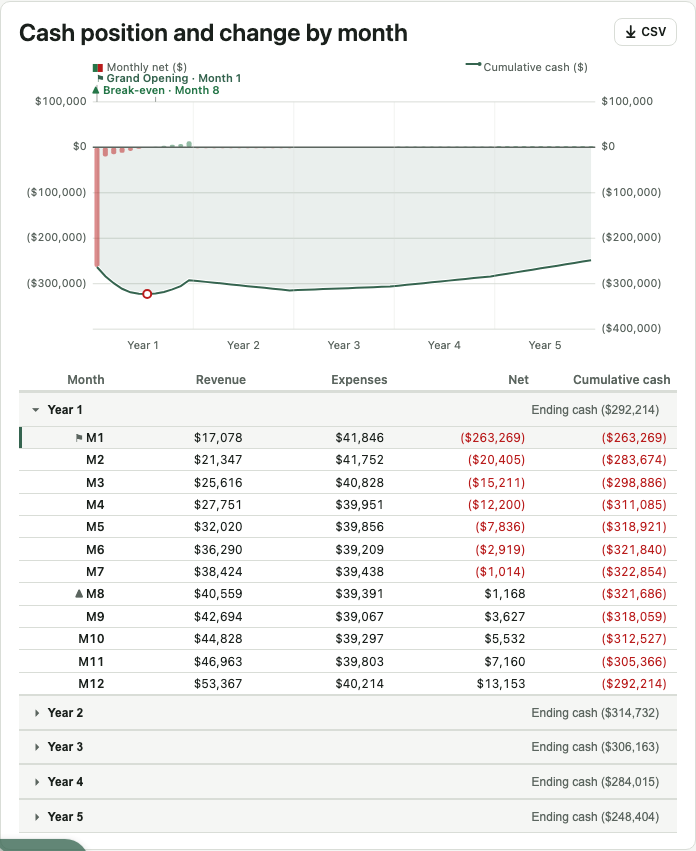
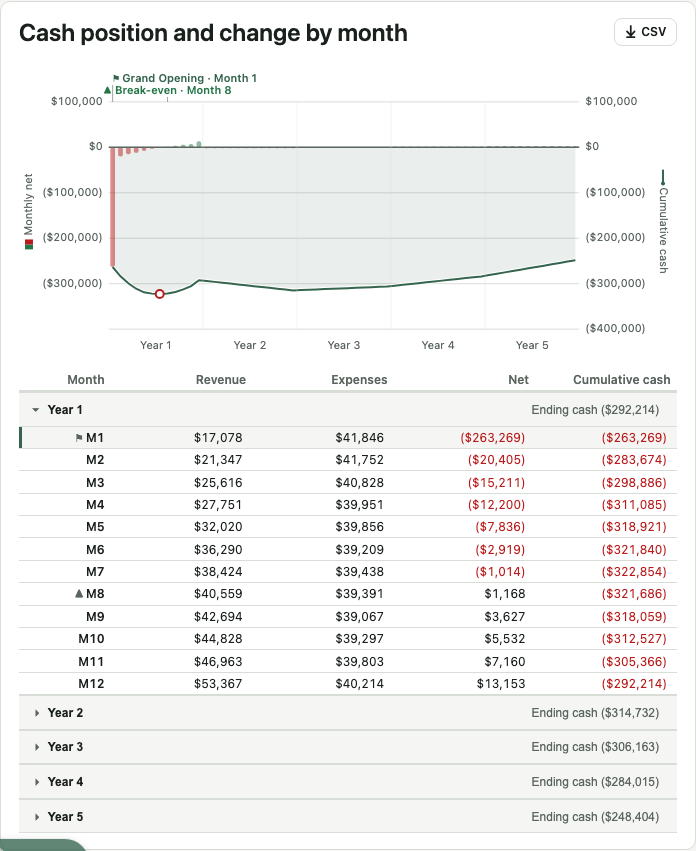
fix(cashflow): rotate axis titles, drop redundant "($)" (owner feedback)
The horizontal top-row axis-title chips read as "sloppy" to the owner. Replace
them with conventional rotated y-axis titles: the net (left) title rotates
-90deg and reads bottom-to-top, the cumulative (right) title mirrors it at
90deg reading top-to-bottom (the standard twin-axis convention) — each glyph
(box swatch / line+dot) rides along with its text as one rotated <g>, glyph
first in reading order. Both titles drop the trailing "($)" since the tick
labels already carry "$", making it redundant.

Both titles are vertically centered on the plot (shared pivot Y), positioned
just inside the SVG edge in the left/right gutters, outside the tick-label
column. padL/padR widen by 16px each (74->90, 82->98) — the minimum a rotated
title's own thickness needs — while padT/milestoneBaseY revert to their
pre-axis-title-chip constants (44/24) since the titles no longer occupy a top
row; the ≤480px stacking ternaries (JS-only, no dedicated CSS existed) are
removed as dead code now that rotation removes the narrow-width collision
entirely.

RED-first: replaced the obsolete narrow-stack unit test with coverage for the
rotation transform, shared vertical-center pivot, left/right gutter placement,
glyph-before-text DOM order, and the "no ($)" assertion, at both default and
narrow-stubbed widths. Extended the e2e evidence-screenshot test to also
capture a close-up crop per rotated title (net + cumulative) at all three
viewports, replacing the now-stale top-row closeups.

diff --git a/web/src/components/CashflowChart.test.tsx b/web/src/components/CashflowChart.test.tsx
@@ -148,6 +148,105 @@ describe("CashflowChart module", () => {
     expect(svg.textContent).toMatch(/Cumulative cash/);
   });
 
+  // ── owner-feedback polish (2026-07-04 second live review) — rotated axis
+  // titles. The horizontal top-row title chips read as sloppy/unlabeled to the
+  // owner; they are replaced with CONVENTIONAL rotated y-axis titles, one in
+  // each gutter, vertically centered on the plot, glyph riding along with the
+  // text as one rotated group. "($)" is dropped from both — the tick labels
+  // already carry "$", so repeating it in the title is redundant. ──────────────
+  describe("rotated axis titles (owner item, 2026-07-04 second review)", () => {
+    it("drops the redundant '($)' from both axis titles — ticks already show $", () => {
+      render(<CashflowChart monthly={series60()} breakevenMonth={29} milestones={milestones60} />);
+      const net = screen.getByTestId("cashflow-axis-title-net");
+      const cum = screen.getByTestId("cashflow-axis-title-cum");
+      expect(net.textContent).toBe("Monthly net");
+      expect(cum.textContent).toBe("Cumulative cash");
+      expect(net.textContent).not.toMatch(/\(\$\)/);
+      expect(cum.textContent).not.toMatch(/\(\$\)/);
+    });
+
+    it("rotates the net title -90° (reads bottom-to-top) and the cumulative title 90° (reads top-to-bottom)", () => {
+      const { container } = render(
+        <CashflowChart monthly={series60()} breakevenMonth={29} milestones={milestones60} />,
+      );
+      const netGroup = container.querySelector(".cashflow-chart__axis-label--net")!;
+      const cumGroup = container.querySelector(".cashflow-chart__axis-label--cum")!;
+      const netTransform = netGroup.getAttribute("transform") ?? "";
+      const cumTransform = cumGroup.getAttribute("transform") ?? "";
+      expect(netTransform).toMatch(/^rotate\(-90 /);
+      expect(cumTransform).toMatch(/^rotate\(90 /);
+    });
+
+    it("vertically centers both rotated titles on the plot area, on the SAME pixel row", () => {
+      const { container } = render(
+        <CashflowChart monthly={series60()} breakevenMonth={29} milestones={milestones60} />,
+      );
+      const netGroup = container.querySelector(".cashflow-chart__axis-label--net")!;
+      const cumGroup = container.querySelector(".cashflow-chart__axis-label--cum")!;
+      const parse = (t: string) => t.match(/rotate\((-?[\d.]+) ([\d.]+) ([\d.]+)\)/)!;
+      const [, , netCx, netCy] = parse(netGroup.getAttribute("transform")!);
+      const [, , cumCx, cumCy] = parse(cumGroup.getAttribute("transform")!);
+      // Plot area is H=300, padT=44, padB=28 → plotH=228 → vertical center = 158,
+      // fixed regardless of viewport width (chart geometry constant).
+      expect(netCy).toBe("158");
+      expect(cumCy).toBe(netCy);
+      // The net title sits in the LEFT gutter, the cumulative title in the RIGHT.
+      expect(parseFloat(netCx)).toBeLessThan(parseFloat(cumCx));
+    });
+
+    it("places the net title in the left gutter and the cumulative title in the right gutter (outside the tick labels)", () => {
+      const { container } = render(
+        <CashflowChart monthly={series60()} breakevenMonth={29} milestones={milestones60} />,
+      );
+      const netGroup = container.querySelector(".cashflow-chart__axis-label--net")!;
+      const cumGroup = container.querySelector(".cashflow-chart__axis-label--cum")!;
+      const parse = (t: string) => parseFloat(t.match(/rotate\(-?[\d.]+ ([\d.]+)/)![1]);
+      const netCx = parse(netGroup.getAttribute("transform")!);
+      const cumCx = parse(cumGroup.getAttribute("transform")!);
+      // Wide viewBox is 660 units wide; the net pivot is near the left edge,
+      // the cumulative pivot near the right edge.
+      expect(netCx).toBeLessThan(30);
+      expect(cumCx).toBeGreaterThan(630);
+    });
+
+    it("renders the glyph BEFORE the text in DOM/reading order for both titles", () => {
+      const { container } = render(
+        <CashflowChart monthly={series60()} breakevenMonth={29} milestones={milestones60} />,
+      );
+      const netGroup = container.querySelector(".cashflow-chart__axis-label--net")!;
+      const cumGroup = container.querySelector(".cashflow-chart__axis-label--cum")!;
+      const netChildren = Array.from(netGroup.children).map((c) => c.tagName.toLowerCase());
+      const cumChildren = Array.from(cumGroup.children).map((c) => c.tagName.toLowerCase());
+      expect(netChildren.indexOf("text")).toBe(netChildren.length - 1);
+      expect(cumChildren.indexOf("text")).toBe(cumChildren.length - 1);
+    });
+
+    it("still renders both titles rotated + centered at the narrow (<=480px) viewport", () => {
+      const mql = {
+        matches: true,
+        media: "(max-width: 480px)",
+        addEventListener: () => {},
+        removeEventListener: () => {},
+      };
+      vi.stubGlobal("matchMedia", vi.fn().mockReturnValue(mql as unknown as MediaQueryList));
+      const { container } = render(
+        <CashflowChart monthly={series60()} breakevenMonth={29} milestones={milestones60} />,
+      );
+      const netGroup = container.querySelector(".cashflow-chart__axis-label--net")!;
+      const cumGroup = container.querySelector(".cashflow-chart__axis-label--cum")!;
+      expect(netGroup.getAttribute("transform")).toMatch(/^rotate\(-90 /);
+      expect(cumGroup.getAttribute("transform")).toMatch(/^rotate\(90 /);
+      // Narrow viewBox is 380 units wide; the cumulative pivot tracks the
+      // narrower right edge (never clipped, never dropped).
+      const cumCx = parseFloat(
+        cumGroup.getAttribute("transform")!.match(/rotate\(-?[\d.]+ ([\d.]+)/)![1],
+      );
+      expect(cumCx).toBeGreaterThan(350);
+      expect(cumCx).toBeLessThan(380);
+      vi.unstubAllGlobals();
+    });
+  });
+
   // ── owner-feedback polish (2026-07-04 live review) ─────────────────────────
   it("marks the axis-title swatches aria-hidden (the text label already names the series)", () => {
     const { container } = render(
@@ -454,42 +553,6 @@ describe("shared-zero degenerate guard (review C1)", () => {
       container.querySelectorAll(".cashflow-chart__axis-tick--right"),
     ).map((t) => t.textContent);
     expect(rightTicks).toContain("$0");
-  });
-});
-
-// ── owner-feedback item 1 (live review 2026-07-04): at <=480px the wide layout's
-// fixed right-anchor offset for the cumulative axis title collided with the net
-// title's text with ZERO gap (confirmed in a real 375px browser render — the two
-// labels ran together as "Monthly net ($)—Cumulative cash ($)"), which is exactly
-// why the owner read the axes as unlabeled. The spec explicitly allows the title
-// pair to STACK at narrow widths (§7); this locks that stacked, non-colliding
-// layout in place. jsdom has no matchMedia, so it's stubbed to force `narrow`. ──
-describe("axis-title layout at <=480px (owner item 1, narrow stack)", () => {
-  function stubNarrowMatchMedia() {
-    const mql = {
-      matches: true,
-      media: "(max-width: 480px)",
-      addEventListener: () => {},
-      removeEventListener: () => {},
-    };
-    vi.stubGlobal(
-      "matchMedia",
-      vi.fn().mockReturnValue(mql as unknown as MediaQueryList),
-    );
-  }
-
-  it("stacks the cumulative title BELOW the net title instead of sharing its row", () => {
-    stubNarrowMatchMedia();
-    const { container } = render(
-      <CashflowChart monthly={series60()} breakevenMonth={29} milestones={milestones60} />,
-    );
-    const netText = container.querySelector(".cashflow-chart__axis-label--net text")!;
-    const cumText = container.querySelector(".cashflow-chart__axis-label--cum text")!;
-    const netY = parseFloat(netText.getAttribute("y")!);
-    const cumY = parseFloat(cumText.getAttribute("y")!);
-    // Stacked, not side-by-side: cum sits on a LOWER row than net.
-    expect(cumY).toBeGreaterThan(netY);
-    vi.unstubAllGlobals();
   });
 });
 

diff --git a/web/src/components/CashflowChart.tsx b/web/src/components/CashflowChart.tsx
@@ -195,34 +195,39 @@ export function CashflowChart({ monthly, breakevenMonth, milestones, viewSlug }:
   // labels ("($300,000)") — ~62px wide — so the narrower spec paddings (sized for
   // the abbreviated "$300k" labels in the spec's illustrative worked example)
   // clipped them at both edges. Verified un-clipped in the QA screenshot (§7 says
-  // to confirm padding by screenshot, not formula).
-  const padL = 74;
-  const padR = 82;
-  // Axis-title block + milestone-label row height depends on layout: at <=480px
-  // the two axis titles STACK into two rows (spec §7 "axis-title pair may
-  // stack") instead of sharing one row — owner-feedback fix (item 1): at the
-  // wide layout's fixed right-anchor offset, the cumulative title's text
-  // collided with the net title's text at ZERO gap on the narrower 380-unit
-  // reference viewBox (confirmed in a real 375px browser render — the two read
-  // as one run-together string, which is why the owner saw the axes as
-  // unlabeled). Stacking needs more headroom before the milestone-label row,
-  // which itself needs more headroom before the plot starts.
-  const padT = narrow ? 58 : 44;
+  // to confirm padding by screenshot, not formula). +16 on each side (owner
+  // live-review, 2026-07-04 second pass) is the rotated axis title's own
+  // "thickness" (a vertical title's footprint in the gutter is its font
+  // line-height, ~12px, not its text length) — the minimum needed so the
+  // rotated title clears the tick-label column; the plot keeps the rest.
+  const padL = 90;
+  const padR = 98;
+  // The axis titles no longer live in a top row (owner item, 2026-07-04 second
+  // review — they rotate into the left/right gutters instead), so padT reverts
+  // to the pre-axis-title-chip constant: just enough headroom for the on-chart
+  // milestone-label row before the plot starts (no narrow/wide split needed —
+  // that split existed only to stack the old horizontal title chips).
+  const padT = 44;
   const padB = 28;
   const plotW = W - padL - padR;
   const plotH = H - padT - padB;
   const tCum = narrow ? 3 : 5;
   const tNet = narrow ? 3 : 4;
-  // Cumulative axis-title position: same row as net (right-anchored) at
-  // wide/tablet; a second row, left-aligned under the net title, when narrow.
-  const cumTitleY = narrow ? 20 : 6;
-  const cumTitleTextY = narrow ? 27 : 13;
-  const cumTitleX1 = narrow ? padL : W - padR - 130;
-  const cumTitleX2 = narrow ? padL + 14 : W - padR - 116;
-  const cumTitleTextX = narrow ? padL + 18 : W - padR - 112;
-  // Milestone on-chart labels sit below the axis-title block; narrow needs the
-  // extra row's worth of headroom the stacked titles now occupy.
-  const milestoneBaseY = narrow ? 36 : 24;
+  // Rotated axis-title geometry: each title is one <g> rotated about a pivot
+  // point (pivotX, plotCenterY) — see the render below for the rotation-math
+  // doctrine (rotate(-90,·) on the left puts the FIRST local-x content, the
+  // glyph, at the bottom, reading bottom-to-top; rotate(90,·) on the right
+  // puts it at the top, reading top-to-bottom — the standard mirrored
+  // twin-axis convention). Vertically centering both on the plot means both
+  // pivots share the same Y, so the shared-$0 spirit extends to the titles
+  // too. leftTitleX/rightTitleX sit just inside the SVG edge, outside the
+  // tick-label column (padL/padR above already reserve the room).
+  const plotCenterY = padT + plotH / 2;
+  const leftTitleX = 10;
+  const rightTitleX = W - 14;
+  // Milestone on-chart labels sit below where the axis-title row used to be;
+  // a single constant now that titles never occupy this row (narrow or wide).
+  const milestoneBaseY = 24;
 
   const n = monthly.length;
   const bandW = plotW / n;
@@ -422,19 +427,49 @@ export function CashflowChart({ monthly, breakevenMonth, milestones, viewSlug }:
             </g>
           )}
 
-          {/* axis titles (identity carried here, not a standalone legend). At
-              <=480px the two stack into two rows instead of sharing one — see
-              the padT/cumTitle* comment above (owner item 1). The swatch
-              shapes are aria-hidden; the text label already names the series. */}
-          <g className="cashflow-chart__axis-label cashflow-chart__axis-label--net">
-            <rect aria-hidden="true" className="cashflow-chart__axis-swatch--net-pos" x={padL} y={6} width={5} height={8} />
-            <rect aria-hidden="true" className="cashflow-chart__axis-swatch--net-neg" x={padL + 5} y={6} width={5} height={8} />
-            <text x={padL + 14} y={13} className="cashflow-chart__axis-label-text">Monthly net ($)</text>
+          {/* axis titles (identity carried here, not a standalone legend) —
+              owner item, 2026-07-04 second review: CONVENTIONAL rotated
+              y-axis titles, one per gutter, vertically centered on the plot,
+              instead of the horizontal top-row chips that read as sloppy /
+              unlabeled. "($)" is dropped — the tick labels already carry "$".
+              Each title is glyph-then-text in LOCAL (pre-rotation) reading
+              order, rotated as ONE group so the glyph rides along with the
+              text. rotate(-90, pivot) on the left sends the first
+              (smallest-local-x) content — the glyph — to the BOTTOM of the
+              rotated block, so the net title reads bottom-to-top;
+              rotate(90, pivot) on the right sends it to the TOP, so the
+              cumulative title reads top-to-bottom — the standard mirrored
+              twin-axis convention. The swatch shapes stay aria-hidden; the
+              text is the real, readable label. */}
+          <g
+            className="cashflow-chart__axis-label cashflow-chart__axis-label--net"
+            transform={`rotate(-90 ${leftTitleX} ${plotCenterY})`}
+          >
+            <rect aria-hidden="true" className="cashflow-chart__axis-swatch--net-pos" x={leftTitleX - 34} y={plotCenterY - 4} width={5} height={8} />
+            <rect aria-hidden="true" className="cashflow-chart__axis-swatch--net-neg" x={leftTitleX - 29} y={plotCenterY - 4} width={5} height={8} />
+            <text
+              data-testid="cashflow-axis-title-net"
+              x={leftTitleX - 20}
+              y={plotCenterY + 3}
+              className="cashflow-chart__axis-label-text"
+            >
+              Monthly net
+            </text>
           </g>
-          <g className="cashflow-chart__axis-label cashflow-chart__axis-label--cum">
-            <line aria-hidden="true" className="cashflow-chart__axis-swatch--cum" x1={cumTitleX1} x2={cumTitleX2} y1={cumTitleY} y2={cumTitleY} />
-            <circle aria-hidden="true" className="cashflow-chart__axis-swatch--cum-dot" cx={cumTitleX2} cy={cumTitleY} r={2} />
-            <text x={cumTitleTextX} y={cumTitleTextY} className="cashflow-chart__axis-label-text">Cumulative cash ($)</text>
+          <g
+            className="cashflow-chart__axis-label cashflow-chart__axis-label--cum"
+            transform={`rotate(90 ${rightTitleX} ${plotCenterY})`}
+          >
+            <line aria-hidden="true" className="cashflow-chart__axis-swatch--cum" x1={rightTitleX - 46} x2={rightTitleX - 32} y1={plotCenterY} y2={plotCenterY} />
+            <circle aria-hidden="true" className="cashflow-chart__axis-swatch--cum-dot" cx={rightTitleX - 32} cy={plotCenterY} r={2} />
+            <text
+              data-testid="cashflow-axis-title-cum"
+              x={rightTitleX - 28}
+              y={plotCenterY + 3}
+              className="cashflow-chart__axis-label-text"
+            >
+              Cumulative cash
+            </text>
           </g>
 
           {/* full-width gridlines: HERO (cumulative) only, at its nice ticks */}

diff --git a/e2e/cashflow-module.spec.ts b/e2e/cashflow-module.spec.ts
@@ -205,5 +205,35 @@ test.describe("evidence screenshots — canonical 60%-labor default", () => {
     await module.scrollIntoViewIfNeeded();
     await module.screenshot({ path: join(ASSETS, `cashflow-module-${tag}.png`) });
     await expect(module).toBeVisible();
+
+    // Close-up crops of the two ROTATED axis titles (owner item, 2026-07-04
+    // second review) — real-browser evidence that each renders rotated,
+    // glyph-riding-with-text, and legible at this viewport (not just present
+    // in the DOM — jsdom can't render SVG rotation at all). boundingBox()
+    // returns the axis-aligned box that fully contains the rotated content.
+    for (const [key, groupClass] of [
+      ["net", ".cashflow-chart__axis-label--net"],
+      ["cum", ".cashflow-chart__axis-label--cum"],
+    ] as const) {
+      // The whole rotated <g> (glyph + text), not just the <text>, so the
+      // crop shows the glyph riding along with its label.
+      const title = page.locator(groupClass);
+      await expect(title).toBeVisible();
+      const box = (await title.boundingBox())!;
+      // A tight pad: wide enough to frame the glyph without bleeding into the
+      // adjacent tick-label column (the gutter between the rotated title and
+      // the tick labels is intentionally narrow — see the padL/padR comment
+      // in CashflowChart.tsx).
+      const pad = 6;
+      await page.screenshot({
+        path: join(ASSETS, `cashflow-axis-title-${key}-${tag}-closeup.png`),
+        clip: {
+          x: Math.max(0, box.x - pad),
+          y: Math.max(0, box.y - pad),
+          width: box.width + pad * 2,
+          height: box.height + pad * 2,
+        },
+      });
+    }
   });
 });

diff --git a/web/src/tokens.css b/web/src/tokens.css
@@ -1995,7 +1995,14 @@ body {
   flex: 0 0 auto;
 }
 
-/* --- axis titles (replace the standalone legend, spec §3.5) --- */
+/* --- axis titles (replace the standalone legend, spec §3.5). Owner item,
+   2026-07-04 second review: each title's <g> carries an SVG `transform:
+   rotate(...)` set inline in CashflowChart.tsx (layout geometry, the
+   sanctioned exception — same doctrine as the chart's x/y/points/d). The
+   glyph + text both rotate as one group; text-anchor stays "start" in both
+   local (pre-rotation) frames, since glyph-then-text reading order is what
+   the rotation math flips into bottom-to-top (net, rotate(-90)) or
+   top-to-bottom (cumulative, rotate(90)). --- */
 .cashflow-chart__axis-label {
   pointer-events: none;
 }
